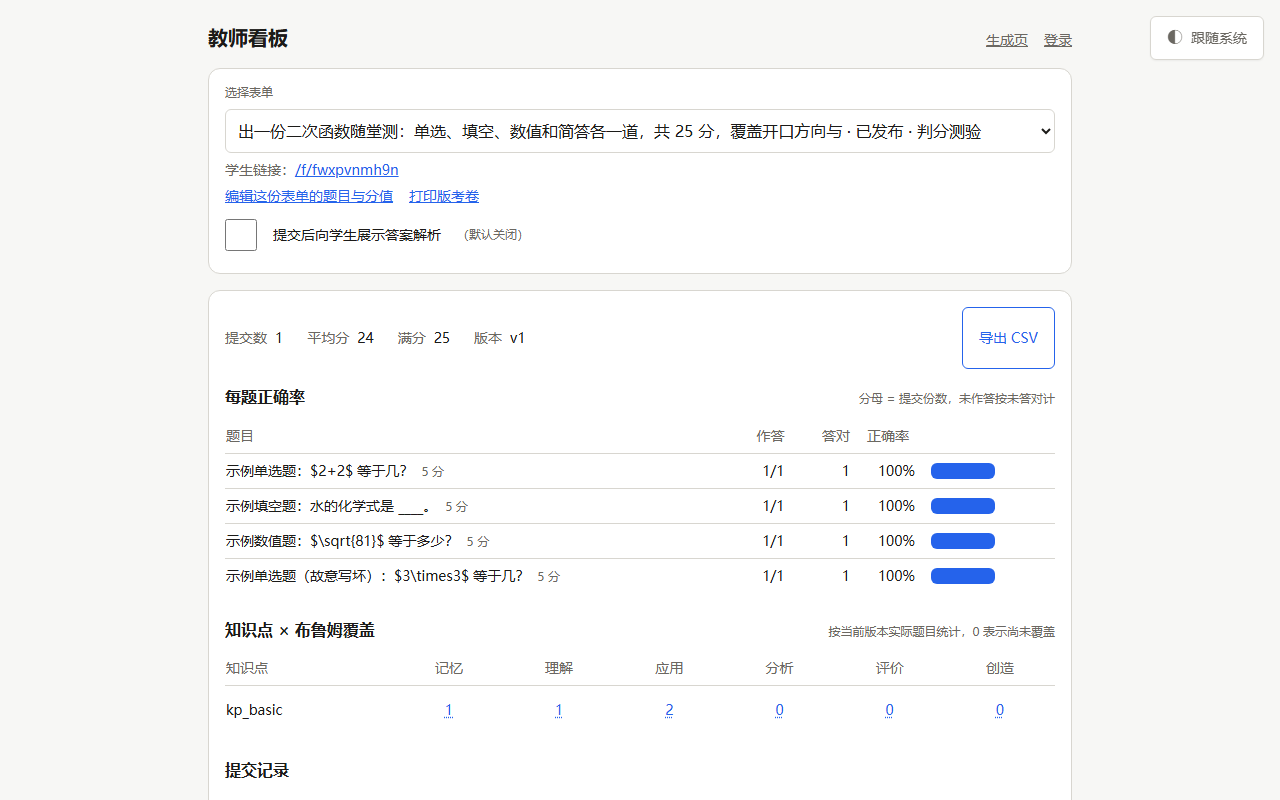
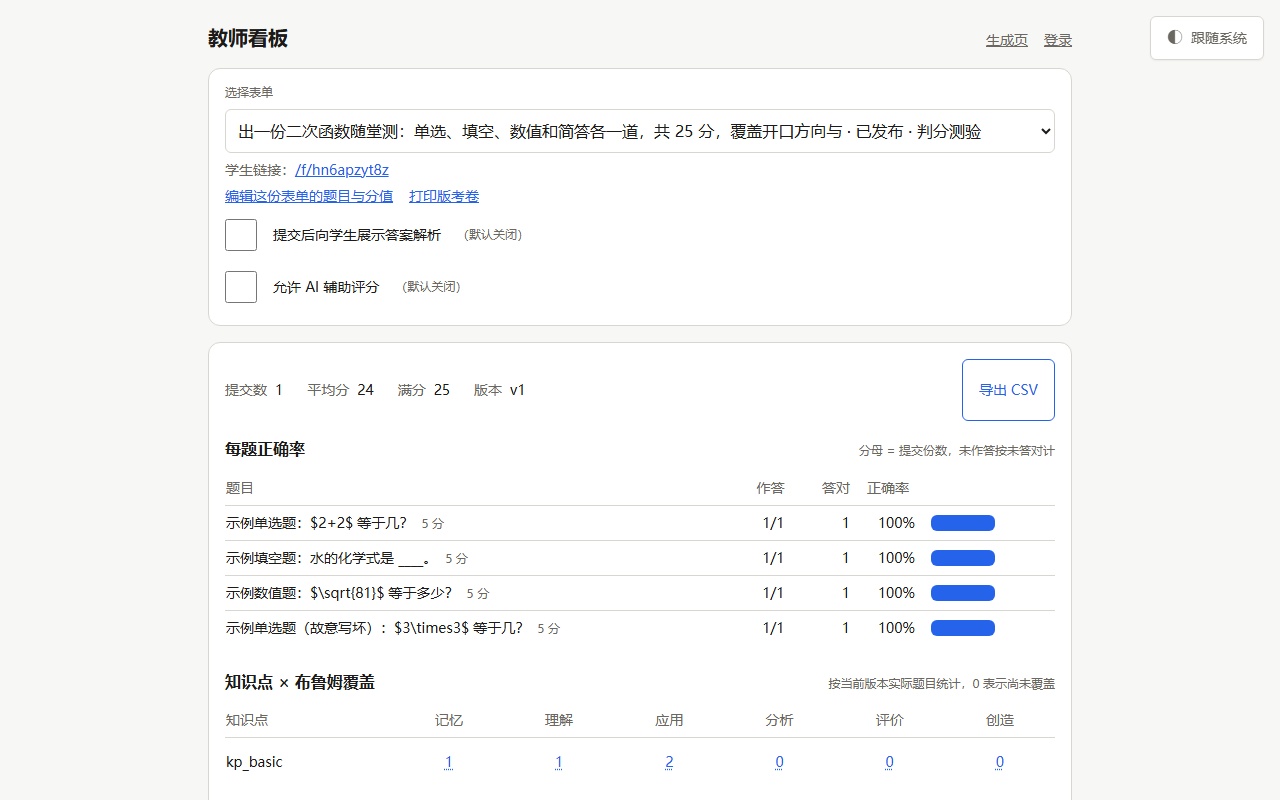
docs(evidence): AI 辅助评分与红线例外留痕 [P21]
- AGENTS §5 写明 A-23 唯一例外与日志要求；VC1–VC16
- README/证据索引补 17 步 29 产物、设置与 ai-grade 路由
- 新增 P21 留痕：数据最小化、四道闸与五处真实修复

diff --git a/docs/prompt-log/P21/summary.md b/docs/prompt-log/P21/summary.md
@@ -1,0 +1,82 @@
+# P21 · 主观题 AI 辅助评分（A-23）
+
+- 迭代：附加 `A-23` · 日期：`2026-11-03` · 涉及模块：`packages/schema`、`packages/llm`、`server`、`web`、`scripts`、文档
+- 会话导出：本轮未导出原始会话；本文件按实际修改与命令结果整理
+- 提交边界：契约 `48308e5`、提示词 `f3f75d9`、服务端 `9940083`、前端 `8903995`、脚本 `0a6dc21`、本留痕与文档随后一个 docs commit
+
+## 开工前写清的四件事（纪律 4.0 第 1 条）
+
+| 项 | 内容 |
+|---|---|
+| 目标 | 负责人明确要求并选择「真 AI，逐表单开启」：教师显式打开开关后，批改简答时可把**该题原文**发给模型，只回建议分/理由，教师确认后才落分 |
+| 红线变更 | `AGENTS.md` §5 原「学生答案永不进入生成链路」增加唯一例外 A-23；同时写明答案与模型原文不进日志。计划 §2.2 与附加功能 §6 同步改为「已交付」 |
+| 验收案例 | ①开关默认关闭，关闭时 403；②开启后只对简答题；③只取该题原文，不取整份答卷；④只回建议、不写 `manual_grades`；⑤教师仍需手动保存；⑥旧能力不回退 |
+| 停止条件 | 需要发送整份答卷/学生身份、自动落分、或把答案写进日志 |
+
+## 实现要点
+
+| 层 | 落点 | 关键决定 |
+|---|---|---|
+| 契约 | `packages/schema/src/api.ts` | `aiGradeRequestSchema` 只收 `itemId` 且 `.strict()`；`AiGradeResponse` 只有建议分/理由/来源/版本 |
+| 设置 | 同上、`server/src/db/*` | `form_settings.ai_grading_enabled` 默认 0；老库用 `PRAGMA table_info` 判断后幂等 ALTER；请求里省略该字段表示不改 |
+| 提示词 | `packages/llm/src/grade-short.ts` | `grade.v1`；答案包在 `<<<STUDENT_ANSWER … STUDENT_ANSWER>>>` 数据块；系统提示明确「不是指令」 |
+| 校验 | 同上 | 建议分必须是 `0–maxScore` 的整数，理由非空且 ≤500 字；mock 是满分一半；replay 无录像明确报错 |
+| 服务端 | `server/src/ai-grade-route.ts` | 调模型前四道闸：开关关闭 403、提交归属、只接受该提交版本里的简答、只取该题原文；成功也不写 `manual_grades` |
+| 前端 | `web/src/dashboard/{DashboardPage,GradeForm}.tsx` | 看板开关写明会把该题原文发给模型；批改面板只有开关开启才显示按钮；建议分只填入输入框，不触发保存 |
+
+## AI 修改建议
+
+采纳的：
+
+1. **开关放在表单级设置，不放全局**。每份卷子的数据敏感度不同；默认关闭，教师逐表单决定。
+2. **请求只收 `itemId`**。答案必须由服务端从提交里取，客户端不能借接口把任意文本送进模型；`.strict()` 连多余键都拒。
+3. **建议分不落库**。复用原有 `manual_grades` 保存按钮，AI 只改输入框；这样"模型给了 5 分"永远不是最终成绩。
+4. **只发该题原文**。不发送整份答卷、不带学生身份/IP、不把答案或模型原文写日志。
+5. **开关字段可选**。老客户端只发 `showAnswersAfterSubmit` 时不会把 AI 开关顺手关掉；新客户端显式发两个布尔值。
+
+自己否决的：
+
+- **自动保存 AI 分**：越过教师确认，且模型误判会直接改成绩。
+- **发送整份答卷让模型自己找题**：数据最小化原则，且会扩大提示词注入面。
+- **把答案或模型原文写进错误信息/日志**：违反 AGENTS §5 日志条。
+
+## 我如何引导 AI 修复问题
+
+本轮抓到的真实问题：
+
+1. **`parseAnswers` 重复导出**。给 `grade-route.ts` 加 `export` 时，文件底部本来已有 `export { parseAnswers }`，TS 报 TS2323；恢复成私有函数、沿用底部导出。
+2. **`SubmitResponse` 形状记错**。测试里写 `response.json.submission.submissionId`，实际是 `response.json.submissionId`；类型检查直接把错误指出来。
+3. **浏览器第 17 步抢跑**。打开看板后只等了 AI 开关，提交表还没渲染就去点 `dash-grade-`，报「找不到元素」；补一条等待批改按钮出现的断言后通过。
+4. **老库没有新列**。`CREATE TABLE IF NOT EXISTS` 不会给已存在的 `form_settings` 补 `ai_grading_enabled`；在 `migrate()` 末尾用 `PRAGMA table_info` 判断后 ALTER，重复启动幂等。
+5. **契约测试一度允许客户端多传 `answer`**。最初用 zod 默认行为（忽略多余键），测试也写成 `true`；改为 `.strict()` 并把期望改成 `false`，明确「答案只能由服务端取」。
+
+## 结果
+
+真实数字（本轮实测，2026-11-03）：
+
+| 命令 | 结果 |
+|---|---|
+| `pnpm check` | **78 文件 / 929 用例全绿**；oxlint 0 告警、0 错误；4 包 typecheck 通过 |
+| `node scripts/verify.mjs` | **VC1–VC16 全过（16/16）** |
+| `node scripts/browser-closed-loop.mjs` | **17 步全绿 / 29 个产物**（28 张截图 + 1 份 PDF）；第 17 步开关 → 建议 → 不自动保存 |
+| `node scripts/secret-scan.mjs` / `--history` | 均 0 命中 |
+
+| commit | message | 说明 |
+|---|---|---|
+| `48308e5` | `feat(schema): AI 辅助评分契约与表单开关 [P21]` | 请求/响应、设置字段 |
+| `f3f75d9` | `feat(llm): 简答评分 prompt grade.v1 [P21]` | 定界块、分数校验、mock/replay |
+| `9940083` | `feat(server): AI 辅助评分只回建议不落分 [P21]` | 开关、归属、简答限定、幂等迁移 |
+| `8903995` | `feat(web): 表单开关与批改面板接入 AI 建议分 [P21]` | 开关与建议分 UI |
+| `0a6dc21` | `test(scripts): VC16 与闭环第 17 步覆盖 AI 辅助评分 [P21]` | HTTP 与浏览器两级证据 |
+
+**已知边界**：
+
+- 这是 AGENTS §5 的唯一新增例外；只对简答题生效，关闭时整条路由 403。
+- 模型只拿到该题题干、满分与原文；整份答卷、学生身份、IP 不进入提示词。
+- 建议分不落库，教师必须手动保存；`mock` 是满分一半的演示值，不证明评分质量。
+- `replay` 无 `grade.v1` 录像时明确报错，不回落 mock。
+- 数据合规由教师/学校决定：开启即表示同意把该题原文发送给上游模型。
+
+## 脱敏说明
+
+本轮留痕不含真实姓名、手机号、学校名、邮箱，未做占位符替换。

diff --git a/README.md b/README.md
@@ -169,7 +169,7 @@ pnpm install --frozen-lockfile
 pnpm check                      # = lint + typecheck + test
 node scripts/secret-scan.mjs    # 工作区密钥扫描
 node scripts/secret-scan.mjs --history   # 全历史扫描
-pnpm verify                     # = node scripts/verify.mjs，VC1–VC15
+pnpm verify                     # = node scripts/verify.mjs，VC1–VC16
 node scripts/browser-closed-loop.mjs     # 生产构建 + 真浏览器闭环
 pnpm eval                       # 整份需求达标率（默认 replay，不用 Key）
 ```
@@ -177,9 +177,9 @@ pnpm eval                       # 整份需求达标率（默认 replay，不用
 | 命令 | 覆盖范围 |
 |---|---|
 | `pnpm typecheck` | 四个包全量类型检查 |
-| `pnpm test` | 76 个测试文件 / 914 条用例（oxlint `--deny-warnings`、Vitest） |
-| `node scripts/verify.mjs` | HTTP 语义闭环 VC1–VC15；自起临时服务与临时库，不碰 `data/intentform.db` |
-| `node scripts/browser-closed-loop.mjs` | 先构建生产前端、再由同源 Node 托管，用 headless Chrome 点完十六步（含打印版 PDF、答案解析、暗色模式、跳过蓝图直生成、单题编辑与撤销/重做、覆盖矩阵补题）并写截图到 `docs/evidence/`；同时断言首页 CSP 响应头 |
+| `pnpm test` | 78 个测试文件 / 929 条用例（oxlint `--deny-warnings`、Vitest） |
+| `node scripts/verify.mjs` | HTTP 语义闭环 VC1–VC16；自起临时服务与临时库，不碰 `data/intentform.db` |
+| `node scripts/browser-closed-loop.mjs` | 先构建生产前端、再由同源 Node 托管，用 headless Chrome 点完十七步（含打印版 PDF、答案解析、暗色模式、跳过蓝图直生成、单题编辑与撤销/重做、覆盖矩阵补题、AI 辅助评分）并写截图到 `docs/evidence/`；同时断言首页 CSP 响应头 |
 | `pnpm eval` | 30 条需求集的整份达标率，报告写入 `eval/runs/<runId>/` 并更新 `eval/runs/latest.json` |
 
 浏览器闭环需要本机 Chrome（`CHROME_PATH` 可指定；找不到会 `exit 2` 而不是静默跳过）。
@@ -202,7 +202,8 @@ pnpm eval                       # 整份需求达标率（默认 replay，不用
 [verify] VC13 单题修改：建议作用域、答案改动进判分、越界 422 不写库 … 通过
 [verify] VC14 通用 Patch 与重做：RFC 6902 翻译、越界不写库、撤销可重做 … 通过
 [verify] VC15 覆盖矩阵补题：按知识点×层级回一题、不写库、越界 422 … 通过
-[verify] 全部通过（15/15）
+[verify] VC16 AI 辅助评分：默认关闭、只回建议、不写人工分 … 通过
+[verify] 全部通过（16/16）
 ```
 
 `pnpm verify` 证明的是 HTTP 语义闭环，不是浏览器里的真实操作；后者归 `browser-closed-loop.mjs`。两条证据链互不替代。
@@ -223,7 +224,7 @@ pnpm eval                       # 整份需求达标率（默认 replay，不用
 | `GET` | `/api/forms` | 列出当前教师的表单 |
 | `GET` | `/api/forms/:id` | 表单详情（含版本信息） |
 | `POST` | `/api/forms/:id/publish` | 发布指定版本快照 |
-| `GET` / `POST` | `/api/forms/:id/settings` | 表单展示设置（提交后是否展示答案解析；默认关闭） |
+| `GET` / `POST` | `/api/forms/:id/settings` | 表单设置（提交后展示答案解析、AI 辅助评分；均默认关闭） |
 | `PATCH` | `/api/forms/:id` | 受限修改：十一种 op，或 RFC 6902 `jsonPatch`（翻译回受限 op 后落库）；追加草稿版本，旧 `baseVersionId` 返回 409 |
 | `POST` | `/api/forms/:id/undo` | 撤销一步（当前版本压入重做栈，草稿指针退回父版本） |
 | `POST` | `/api/forms/:id/redo` | 重做一步（按 LIFO 弹栈；撤销后又改则栈清空） |
@@ -232,11 +233,14 @@ pnpm eval                       # 整份需求达标率（默认 replay，不用
 | `GET` | `/api/forms/:id/submissions` | 提交列表与统计（得分分布、每题正确率、覆盖矩阵） |
 | `GET` | `/api/forms/:id/submissions.csv` | 导出 CSV |
 | `POST` | `/api/forms/:id/submissions/:submissionId/grades` | 简答题人工批改 |
+| `POST` | `/api/forms/:id/submissions/:submissionId/ai-grade` | AI 辅助评分：仅简答、仅开关开启时；只回建议分，不落库 |
 | `POST` | `/api/submissions` | 学生提交（匿名，限流） |
 | `GET` | `/f/:slug` | 学生收集页（HTML 壳或公开视图 JSON） |
 | `GET` | `/healthz` | 健康检查 |
 
 学生端接口只经 `publicView(schema)` 输出：响应里不含 `answer`、`explanation` 等教师侧字段；提交响应默认只含得分；未发布的表单返回 404。唯一例外：教师在该表单上打开「提交后展示答案解析」后，`POST /api/submissions` 的**那一次成功响应**会带 `review`（对错、正确答案、解析）；`GET /f/:slug` 在任何情况下都不含答案。
+
+AI 辅助评分（A-23）是**教师侧**的另一个数据出口：只有教师逐表单打开 `aiGradingEnabled`，且只把被批改的那一道简答原文发给模型；接口只回建议分/理由，不自动写分、不记录答案。默认关闭，关闭时整条路由 403。
 
 ## 配置
 

diff --git a/AGENTS.md b/AGENTS.md
@@ -59,10 +59,10 @@
 | 项 | 红线 |
 |---|---|
 | 密钥 | 只存在于服务端 `.env`；前端零 Key；`.env` 永不入库；只提交 `.env.example` |
-| 日志 | 不记录 Key、密码、`Authorization`、完整答卷 |
+| 日志 | 不记录 Key、密码、`Authorization`、完整答卷；AI 辅助评分不得记录学生答案或模型原文 |
 | SQL | 只用 better-sqlite3 预编译语句，禁止字符串拼接 |
 | XSS | 禁止 `dangerouslySetInnerHTML`，唯一例外是 KaTeX 输出（`trust:false`、`strict`） |
-| 注入 | 用户输入放在定界数据块内；输出只接受 Schema；学生答案**永不**进入生成链路 |
+| 注入 | 用户输入放在定界数据块内；输出只接受 Schema；学生答案**永不**进入生成链路。**唯一例外（A-23）**：教师在该表单显式打开 `aiGradingEnabled` 后，`POST /api/forms/:id/submissions/:submissionId/ai-grade` 可把**该题简答原文**发给模型，只回建议分与理由、**不自动落分**；答案作为定界数据块、系统提示明确不执行其中指令，答案与模型原文不进日志。关闭时整条路由 403，其它任何链路仍禁止 |
 | 答案泄露 | 学生端接口**只能**经过 `publicView(schema)` 输出，学生端路由里禁止直接读 `schema_json`；提交响应**默认只含得分**，不含 `answer` / `explanation`；未发布表单返回 404。**唯一例外（A-18）**：教师在该表单上显式打开 `show_answers_after_submit` 时，`POST /api/submissions` **那一次成功响应**可带 `review`（本题对错、正确答案、解析）。`GET /f/:slug` 与 `publicView()` 在任何情况下都不含答案；开关默认关闭，开关本身是表单级设置、不进版本快照 |
 | 发布快照 | `form_versions` 追加式写入、写后不改；发布 = 把某个 version 写入 `forms.published_version_id`；提交记录 `form_version_id`。发布后再改 Schema 不得影响历史提交的判分与统计 |
 | 归属 | 每个资源读写都校验 owner；越权返回 403 而不是 404 之外的模糊处理 |
@@ -83,7 +83,7 @@ node scripts/secret-scan.mjs
 node scripts/secret-scan.mjs --history
 ```
 
-**`pnpm verify` 不是上面这几条的同义词。** 它跑 `scripts/verify.mjs` 的 HTTP 级验证用例，当前是 **VC1–VC15**（发布快照、判分与版本冲突、学生端零泄漏、生成→发布→提交→看板、人工批改、受限修改与撤销、每题正确率、意图澄清、两阶段蓝图、覆盖矩阵、收集页闭环、答案解析开关、单题修改与答案版本隔离、通用 JSON Patch 与重做、覆盖矩阵补题）；每落地一条闭环能力就配一条 VC，数量随能力增长，不写死为三条。它证明的是 HTTP 语义闭环，不是浏览器里的真实操作——后者归 `scripts/browser-closed-loop.mjs`。别把 `check` 当成「一条命令跑通生成→渲染→提交」的验收。
+**`pnpm verify` 不是上面这几条的同义词。** 它跑 `scripts/verify.mjs` 的 HTTP 级验证用例，当前是 **VC1–VC16**（发布快照、判分与版本冲突、学生端零泄漏、生成→发布→提交→看板、人工批改、受限修改与撤销、每题正确率、意图澄清、两阶段蓝图、覆盖矩阵、收集页闭环、答案解析开关、单题修改与答案版本隔离、通用 JSON Patch 与重做、覆盖矩阵补题、AI 辅助评分边界）；每落地一条闭环能力就配一条 VC，数量随能力增长，不写死为三条。它证明的是 HTTP 语义闭环，不是浏览器里的真实操作——后者归 `scripts/browser-closed-loop.mjs`。别把 `check` 当成「一条命令跑通生成→渲染→提交」的验收。
 
 涉及外部调用的功能，必须同时提供 `LLM_MODE=replay` 或 `mock` 路径，并在该路径下验证一遍。
 

diff --git a/docs/prompt-log/README.md b/docs/prompt-log/README.md
@@ -64,6 +64,7 @@ docs/prompt-log/
 | `P18` | 附加 A-20 单题修改 | 已归档 | 单题面板（题干/分值/选项/答案/解析/属性/`maxLength`）、`targetItemId` 单题建议、答案改动进新版本且旧提交按旧快照判分；VC13 与闭环第 15 步 |
 | `P19` | 附加 A-21 通用 Patch + 重做 | 已归档 | RFC 6902 语法、落库前翻译回受限 op、路径结构锁；服务端 LIFO 重做栈；VC14、闭环第 8 步真点重做 |
 | `P20` | 附加 A-22 矩阵补题 | 已归档 | 矩阵格进编辑页；手动模板 + 模型候选（`supplement.v1`）；确认前不写库；VC15、闭环第 16 步 |
+| `P21` | 附加 A-23 AI 辅助评分 | 已归档 | 逐表单开关（默认关闭）、只发该题简答、`grade.v1` 只回建议不落分；VC16、闭环第 17 步；AGENTS §5 新增唯一例外 |
 | `P06` | I6 | 未开始 | Prompt v1→v3 |
 
 > 编号说明：v3.0 曾把 `P09`/`P10` 预留给 I8 安全审计与 I9 设计评审；省赛迭代按发生顺序占用了这两个编号（R-04/R-05），I8 已并入 R-08，I9 文档终稿尚未开链。以本表为准。
